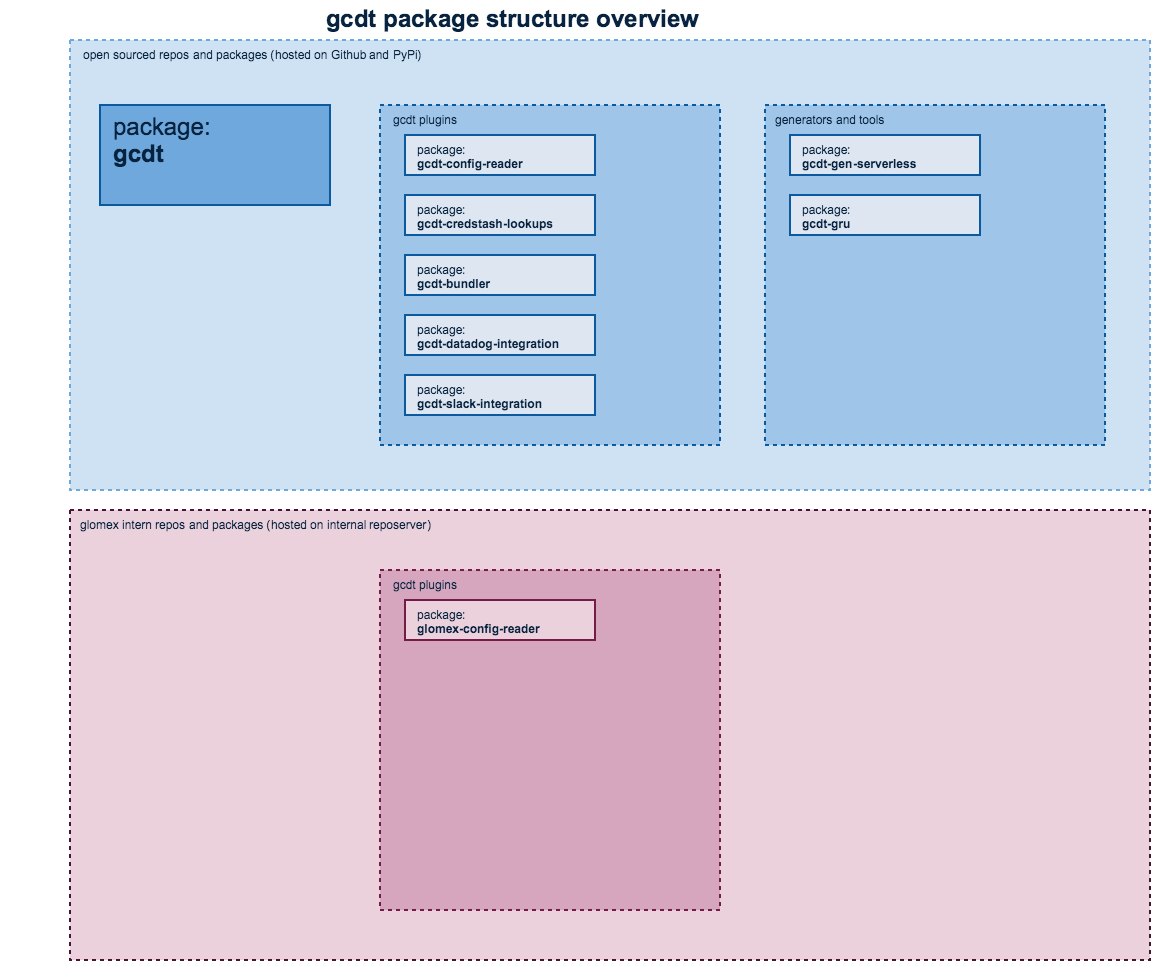
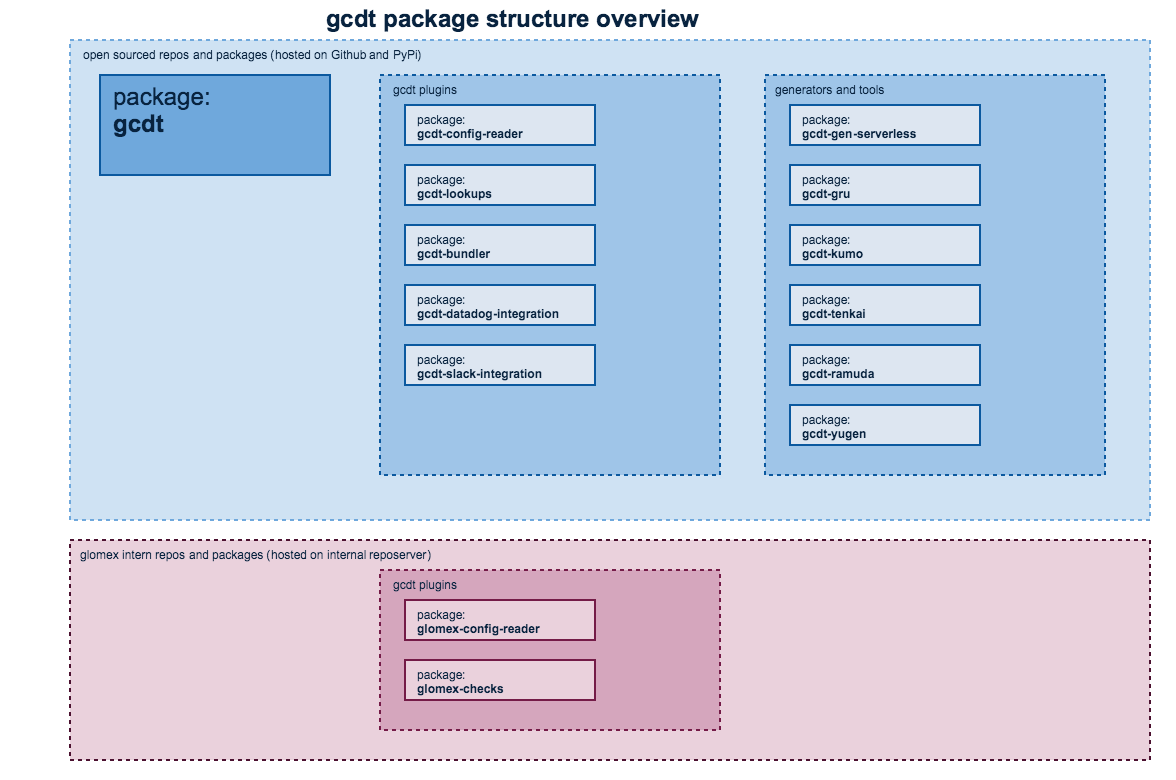
#353 kumo - improved template support

diff --git a/docs/07_installation.md b/docs/07_installation.md
@@ -2,11 +2,15 @@
 
 This chapter covers the gcdt installation. gcdt's behaviour can be customized using plugins. The gcdt plugin mechanism relies on standard Python package mechanisms. In order to get a good experience and get the most out of gcdt you need to know a few things about Python packaging.
 
-This chapter aims to provide you with all the information you need to know on this topic. We also have a screencast in the making related to this topic.
+This chapter aims to provide you with all the information you need to know on this topic.
+
 
 ### Related documents
 
 * [Python Package Index](https://pypi.python.org/pypi)
+* [Version Identification and Dependency Specification](https://www.python.org/dev/peps/pep-0440/)
+* [gcdt changelog](http://gcdt.readthedocs.io/en/latest/CHANGELOG.html)
+
 
 ### What you need to know about python package management
 
@@ -21,6 +25,7 @@ Here is some useful links if you want dive deeper into Python package management
 * [Python Packaging Do's and Don'ts](https://gregoryszorc.com/blog/2014/07/15/python-packaging-do%27s-and-don%27ts/)
 * [The Nine Circles of Python Dependency Hell](https://tech.knewton.com/blog/2015/09/the-nine-circles-of-python-dependency-hell/)
 
+
 ### gcdt package structure
 
 The following diagram gives an overview on the gcdt packages. Please note how we grouped the gcdt packages in the following categories:
@@ -32,6 +37,7 @@ The following diagram gives an overview on the gcdt packages. Please note how we
 ![gcdt package structure overview](_static/images/gcdt-package-structure.png "gcdt package structure overview")
 
 At glomex we have very few (currently one) gcdt packages we do not want to open-source. The glomex-config-reader has very opinionated defaults on how we use gcdt on our AWS infrastructure that is very specific and optimized for our media usecase.
+
 
 ### Maintaining dependencies for your project
 
@@ -60,9 +66,13 @@ gcdt-bundler
 gcdt-slack-integration
 gcdt-datadog-integration
 gcdt-gen-serverless
+gcdt-kumo
+gcdt-tenkai
+gcdt-ramuda
+gcdt-yugen
 ```
 
-This is also a best practice to use the `requirements_gcdt.txt` file on your build server.
+This is also a best practice to use the same `requirements_gcdt.txt` file on your build server, too.
 
 ### Setup virtualenv
 
@@ -99,6 +109,15 @@ $ gcdt version
 BTW, `gcdt version` shows you all the versions of gcdt and installed plugins. So you can use this to quickly check which plugins are installed.
 
 
+### Deactivate a virtualenv
+
+I do not throw away my lawn mower once I am done but with my terminals I do that. But you can deactivate a virtualenv:
+
+``` bash
+$ deactivate
+```
+
+
 ### Updating gcdt
 
 You should frequently update your gcdt installation to get access to new features and bugfixes.
@@ -108,18 +127,62 @@ You should frequently update your gcdt installation to get access to new feature
 $ pip install -U -r requirements_gcdt.txt
 ```
 
-
-#### Deactivate a virtualenv
-
-I do not throw away my lawn mower once I am done but with my terminals I do that. But you can deactivate a virtualenv:
-
-``` bash
-$ deactivate
-```
-
-## Updating gcdt
-If you need to update `gcdt` just do:
-```bash
-$ pip install -U -r requirements_gcdt.txt
-```
 This will update `gcdt` and all `gcdt plugins` specified in *requirements_gcdt.txt*
+
+
+#### General remarks on "breaking changes" and deprecated features
+
+We have two conflicting goals when maintaining gcdt:
+
+* we want to introduce new features and replace older ones with newer implementations
+* we want to be compatible with existing infrastructure and configurations
+
+Besides that this is a pretty standard situation for a deployment tool and many other software projects. Nevertheless we want to make it explicit and consequently document here how we handle this.
+
+We make sure that gcdt does work with our existing configurations. Frequent releases are ok but our squads expect downward compatibility for new patch versions. We could accept minor releases with breaking changes but expect an "update-documentation" which documents all steps that are necessary to upgrade.
+
+We recently discussed and confirmed this in the gcdt grooming on 05.07.17 with representatives of the CO and VE squads.
+
+In case we need to deprecate something we announce that in the [gcdt changelog](http://gcdt.readthedocs.io/en/latest/CHANGELOG.html) respectively in the changelog of gcdt plugins and tools.
+
+The following sections go into `dependency specification` and provide information for how to upgrade from one version to the next.
+
+
+#### Dependency specification (pinning versions)
+
+Like we said above we guarantee compatibility with your installation procedures and configurations for patch versions. If you need to enforce compatibility it is recommended to best pin gcdt packages to minor versions in `requirements_gcdt.txt`.
+
+This is just a sample, you need to pin to the actual versions you want to use:
+
+``` text
+gcdt==0.1.*
+gcdt-config-reader==0.0.*
+gcdt-lookups==0.0.*
+gcdt-bundler==0.0.*
+gcdt-slack-integration==0.0.*
+gcdt-datadog-integration==0.0.*
+gcdt-kumo==0.2.*
+gcdt-tenkai==0.2.*
+gcdt-ramuda==0.2.*
+gcdt-yugen==0.2.*
+```
+
+Detailed information on [Version Identification and Dependency Specification](https://www.python.org/dev/peps/pep-0440/).
+
+
+#### Updating gcdt from 0.1.x to 0.2.x
+
+##### v 0.2.x removed long deprecated hook mechanism
+
+No more 'pre_hook', 'pre_create_hook', 'pre_update_hook', 'post_create_hook', 'post_update_hook', 'post_hook' any more.
+
+[list of available hooks to use](http://gcdt.readthedocs.io/en/latest/gcdt_plugins/15_plugin_mechanism.html#list-of-gcdt-signals)
+
+##### with v 0.2.x you explicitly need to install all used gcdt tools
+ 
+You need to install gcdt-tools (gcdt-kumo, gcdt-tenkai, gcdt-ramuda, gcdt-yugen). Please add the tools to your `requirements_gcdt.txt` like described in the installation section above. 
+
+
+#### Updating gcdt from 0.0.x to 0.1.x
+
+Initially gcdt was a "monolithic" application. We wanted to a plugin mechanism that gives us a little bit more flexibility so we can install `generators` (scaffolding), `plugins`, and `tools` as needed. With 0.1.x versions you need to maintain a `requirements_gcdt.txt` file for you project in order to define which plugins and tools you want to use (see installation section above). 

diff --git a/docs/20_kumo.md b/docs/20_kumo.md
@@ -2,9 +2,11 @@
 
 `kumo` (雲 from Japanese: cloud) is gcdts cloudformation deploy tool.
 
+
 ### Related documents
 
 * [AWS CloudFormation service](https://aws.amazon.com/cloudformation/)
+
 
 ### Usage
 
@@ -24,6 +26,7 @@ Usage:
 -h --help           show this
 -v --verbose        show debug messages
 ```
+
 
 ### Commands
 
@@ -139,6 +142,7 @@ Will load the config file named `gcdt_dev_eu-west-1.json`
 2. create and fill `settings_<env>.conf` with valid parameters for your CloudFormation template
 3. call `kumo deploy` to deploy your stack to AWS
 
+
 ### Kumo lifecycle hooks
 
 Kumo lifecycle hooks work exactly like gcdt lifecycle hooks but have a specialized integration for kumo templates.
@@ -159,9 +163,15 @@ def deregister():
     gcdt_signals.initialized.disconnect(my_hook)
 ```
 
+One kumo speciality for the `command_finalized` hook is that you can access the context attribute 'stack_output'. to access 
+and use outputs of your stack within the hook implementation.
+
+
 ### Kumo legacy hooks
 
-The hooks in this section are deprecated please use gcdt lifecycle hooks (see above)
+The hooks in this section are deprecated please use gcdt lifecycle hooks (see above).
+
+**Please note the legacy hooks will be removed with the next minor release (v 0.2.0).**
 
 kumo offers numerous hook functions that get called during the lifecycle of a kumo deploy run:
 
@@ -189,6 +199,7 @@ Multiple ways of using parameters in your hook functions:
 * use all arguments as keyword arguments or mix.
 * with version 0.0.77 we decided to move away from using boto_sessions towards awsclient (more flexible and low-level).
 
+
 ### Using gcdt functionality in your cloudformation templates
 
 Historically `cloudformation.py` templates imported functionality from gcdt and glomex_utils packages. With version 0.0.77 we consolidated and copied `get_env` over to gcdt.utils.
@@ -203,6 +214,29 @@ The following functionality requires `awsclient` to lookup information from AWS.
 * gcdt.servicediscovery: get_outputs_for_stack
 * gcdt.route53: create_record
 * gcdt.kumo_util: ensure_ebs_volume_tags_autoscaling_group
+
+
+### Accessing context and config in cloudformation
+
+In the last few month we learned about a few usecases where it is desired to have access to config and context within your template. We had some workarounds using hooks but now there is a proper implementation for this feature.
+
+In order to access context and config in your `cloudformation.py` you need to add both `context` and `config` as arguments to the `generate_template? function of your template:
+
+``` python
+def generate_template(context, config):
+    template = troposphere.Template()
+    ph.initialize(template, 'miaImportProcessor')
+    assemble_particles(template, context, config)
+    return template.to_json()
+```
+
+In case you do not want to use this information in your template you don't have to use it (like before).
+
+``` python
+def generate_template():
+    ...
+```
+
 
 ### Stack Policies
 kumo does offer support for stack policies. It has a default stack policy that will get applied to each stack:
@@ -248,6 +282,7 @@ If you want to lock down your stack even more you can implement two functions in
 * * the policy that gets applied during updates
 
 These should return a valid stack policy document which is then preferred over the default value.
+
 
 ### Signal handling
 

diff --git a/docs/gcdt_plugins/20_context_and_config.md b/docs/gcdt_plugins/20_context_and_config.md
@@ -1,0 +1,86 @@
+## Overview on configuration
+
+Configuration and configuration file formats are very dear to us and we already know to you, too. For example the data_platform squad likes to use multiple tool specific hocon files so this functionality is provided by the `glomex_config_reader?. Other squads like to have all the configuration for a service environment in one single config file (gcdt_config_reader).
+
+Regarding configuration file formats many things are possible and it should be very simple to implement your specific requirements as a plugin so you could use XML or INI format. Talk to us and do not shy away from good old json config.
+
+
+### Structure of the configuration (internal representation)
+
+The datastructure gcdt uses to internally represent the configuration basically is json compatible.
+
+We have configuration on the following levels:
+
+* top-level
+* tool-level (tools are kumo, tenkai, ramuda, yugen)
+* plugin specific configuration
+
+``` js
+{
+    'kumo': {
+        ...
+    },
+    'tenkai': {
+        ...
+    },
+    'ramuda': {
+        ...
+    },
+    'yugen': {
+        ...
+    },
+    'plugins' {
+        'plugin_a': {
+            ...
+        },
+        ...
+    }
+}
+```
+
+
+### Multiple levels of gcdt configuration
+
+Configuration is assembled in multiple levels:
+
+![gcdt configuration defaults](_static/images/gcdt_configuration.png "gcdt configuration defaults")
+
+The multiple levels of configurations represent different stages in the lifecycle process. This allows to have a very generic "catch-all" configuration but to override this configuration in specific cases when we have more specific information. Like when using a plugin. For example the glomex_config_reader works on hocon files so it looks for files with a `.conf` extension whereas the gcdt_config_reader looks for `.json` config files.
+
+
+### Context
+
+The gcdt `context` is the "internal" datastructure gcdt is using to process the CLI command that need to be executed. So for instance each plugin or hook can find out about the `tool`, `command`, or `env` it is currently processing. With the context we follow the convention to prefix private attributes with an '_' like with the `_awsclient` that plugins use to access AWS services but `_awsclient` does not show up in the slack or datadog notification.
+
+``` json
+{
+  'version': '0.1.426',
+  'command': 'preview',
+  '_awsclient': <gcdt.gcdt_awsclient.AWSClient object at 0x10291a490>,
+  'env': 'dev',
+  '_arguments': {
+    '--override-stack-policy': False,
+    '-f': False,
+    'delete': False,
+    'deploy': False,
+    'dot': False,
+    'generate': False,
+    'list': False,
+    'preview': True,
+    'version': False
+  },
+  'tool': 'kumo',
+  'plugins': [
+    'gcdt-config-reader',
+    'gcdt-bundler',
+    'gcdt-say-hello',
+    'glomex-config-reader',
+    'gcdt-slack-integration',
+    'glomex-checks',
+    'gcdt-gru',
+    'gcdt-datadog-integration',
+    'gcdt-lookups'
+  ],
+  'user': 'fin0007m'
+}
+```

diff --git a/docs/03_getting_started.md b/docs/03_getting_started.md
@@ -48,6 +48,10 @@ gcdt-lookups
 gcdt-bundler
 gcdt-slack-integration
 gcdt-datadog-integration
+gcdt-kumo
+gcdt-tenkai
+gcdt-ramuda
+gcdt-yugen
 ```
 You can find more information about plugins in [docs](http://gcdt.readthedocs.io/en/latest/gcdt_plugins/index.html)
 then
@@ -58,6 +62,11 @@ To check that everything is good and `gcdt` installed just do:
 ```bash
 $ gcdt version
 gcdt version 0.1.418
+gcdt commands:
+ * gcdt-kumo 0.2.2
+ * gcdt-tenkai 0.2.0
+ * gcdt-ramuda 0.2.0
+ * gcdt-yugen 0.2.0
 gcdt plugins:
  * gcdt-config-reader version 0.0.11
  * gcdt-bundler version 0.0.27

diff --git a/docs/gcdt_plugins/38_gcdt_config_reader.md b/docs/gcdt_plugins/38_gcdt_config_reader.md
@@ -68,6 +68,15 @@ On a more technical note: all ignore patterns you provide are consolidated by th
 
 The gcdt_config_reader plugin supports a `baseconfig` property which gives a basepath. This works with all supported config file formats like json, yaml and .py config files.
 
+``` json
+{
+  "baseconfig": "baseconfig",
+  "ramuda": {
+    "lambda": {
+      "runtime": "nodejs4.3",
+  ...
+```
+
 With that you can for example implement the following config structure with your config files:
  
 ``` text

diff --git a/docs/CHANGELOG.md b/docs/CHANGELOG.md
@@ -5,6 +5,12 @@ The format is based on [Keep a Changelog](http://keepachangelog.com/en/1.0.0/)
 and this project adheres to [Semantic Versioning](http://semver.org/spec/v2.0.0.html).
 
 
+## [0.1.428] - 2017-08-03
+### Added
+- kumo: use 'context' and 'config' in cloudformation templates (#353)
+- kumo: add 'stack_output' attribute to context (#353)
+- added section on version pinning to installation guide
+
 ## [0.1.427] - 2017-08-01
 ### Added
 - yugen: cacheClusterEnabled setting (#328)

diff --git a/docs/22_kumo_particles.md b/docs/22_kumo_particles.md
@@ -23,7 +23,7 @@ kumo particles are perfectly optional. There is no tight coupling! You can total
 * complexity is handled in particle
 
 
-## Detailed requirements
+### Detailed requirements
 
 * particle has default parameters that can be overridden
 * particle provides default permission that can be overridden

diff --git a/docs/gcdt_plugins/index.rst b/docs/gcdt_plugins/index.rst
@@ -7,7 +7,7 @@ Plugins for gcdt (gcdt-plugins)
    02_introduction
    10_overview
    15_plugin_mechanism
-   20_config
+   20_context_and_config
    38_gcdt_config_reader
    50_gcdt_lookups
    55_gcdt_bundler
